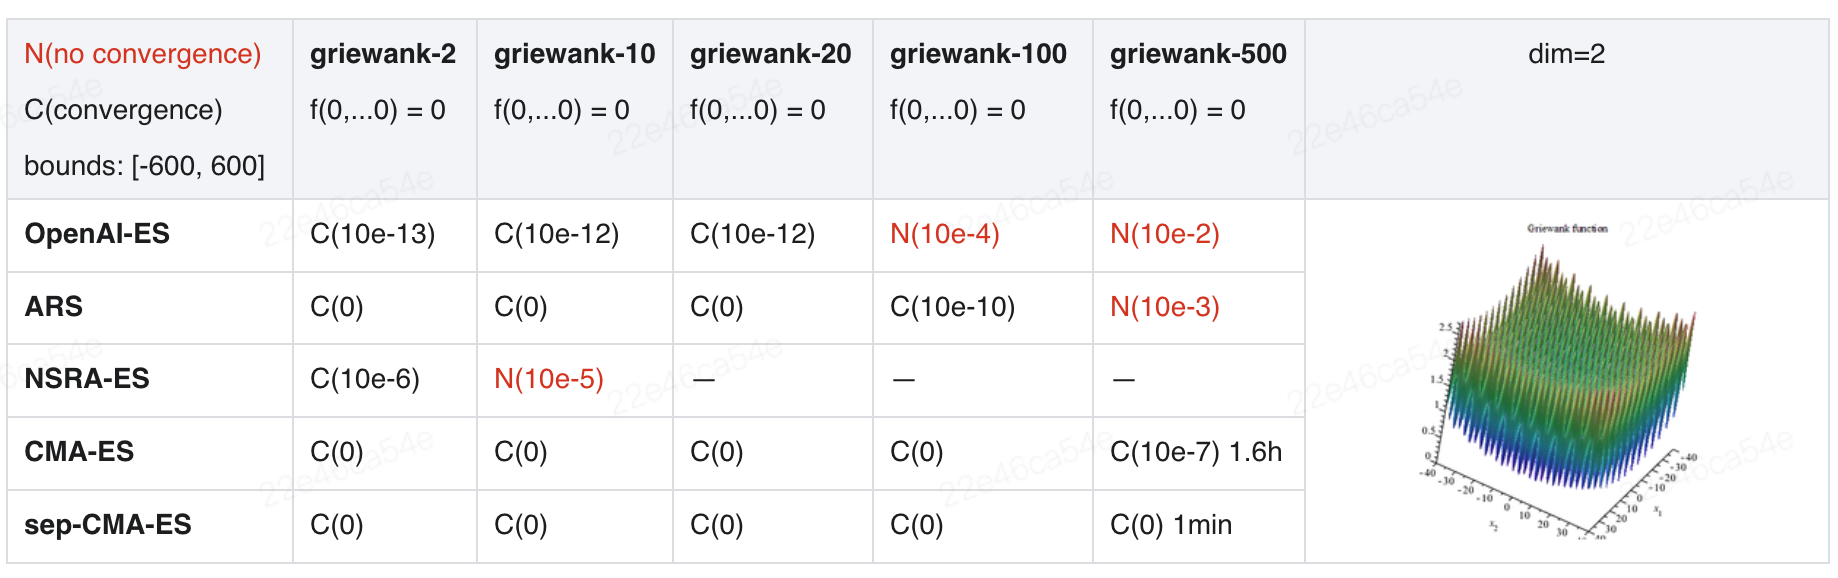
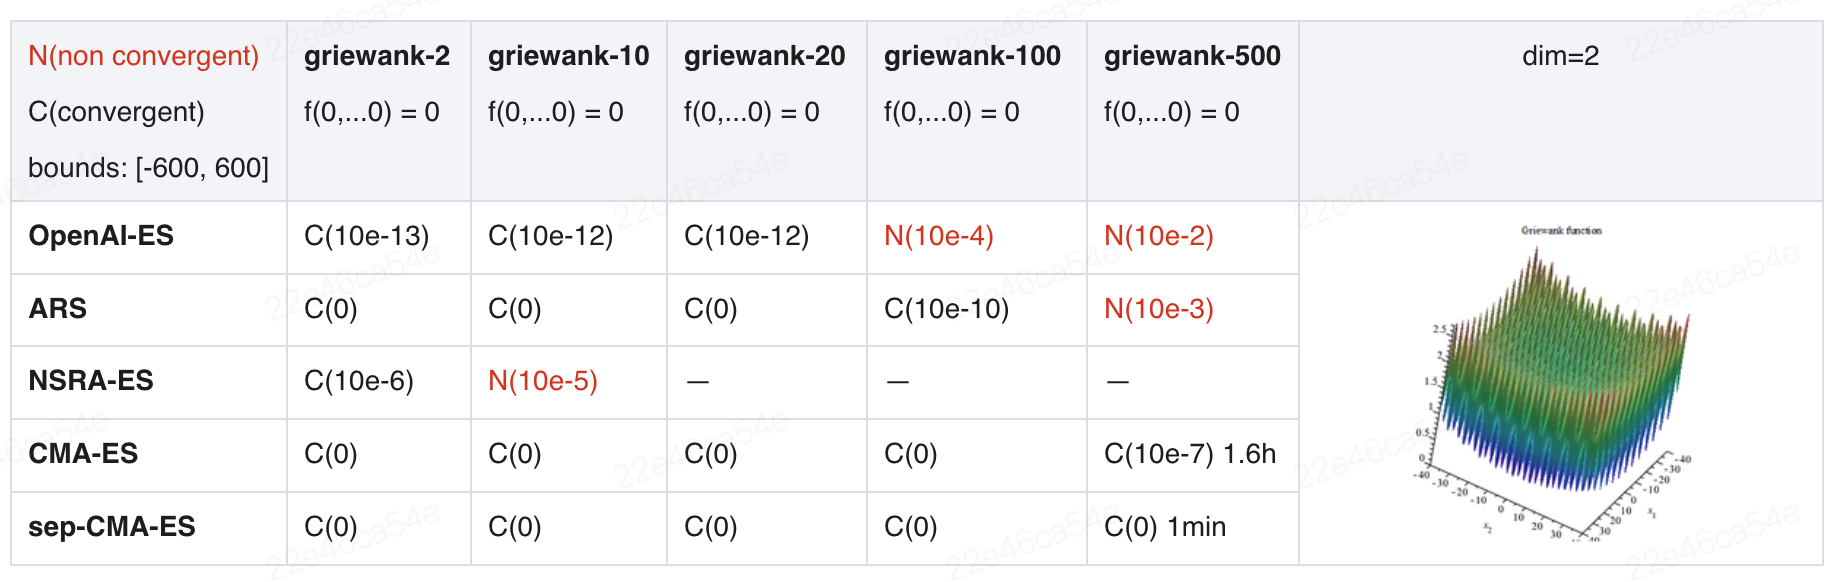
modify readme, update func results

diff --git a/examples/README.md b/examples/README.md
@@ -2,7 +2,7 @@
 ## Examples
 Examples and results of five algorithms on the two built-in problems.
 ### Benchmark result
-+ Results of four algorithms in five dimensions (2, 10, 20, 100, 500) on two mathematical functions (Ackley and Griewank). (Direct optimization of float list, i.e. inputs to mathematical functions)
++ Experiment result of different algorithms on two mathematical functions (Ackley and Griewank), five kinds of dimensions are selected for comparison
 
     <p align="center">
     <img src=".results/ackley_results.png" alt="ackley_results">
@@ -11,7 +11,7 @@ Examples and results of five algorithms on the two built-in problems.
     <img src=".results/griewank_results.png" alt="griewank_results">
     </p>       
 
-    Note: At dim=500, the difficulty of the problem increases, and we increase the sample_num to achieve the convergence effect (sample_num=200 for ARS, sample_num=500 for CMAES and Sep-CMAES).  
+    Note: 1. Non-convergent does not mean that it cannot converge, but hyperparameters need additional adjustment. 2. At dim=500, the difficulty of the problem increases, and we increase the sample_num convergence (sample_num=200 for ARS, sample_num=500 for CMAES and Sep-CMAES).  
 
 + Results of five algorithms in two reinforcement learning environments (HalfCheetah-v2 and Humanoid-v2). (model network for optimization)
 
@@ -19,28 +19,28 @@ Examples and results of five algorithms on the two built-in problems.
     <img src=".results/HalfCheetah-v2.png" width="350" alt="HalfCheetah-v2"/><img src=".results/Humanoid-v2.png" width="350" alt="Humanoid-v2"/>
     </p>
 
-    Note: In the Humanoid-v2 environment, there are two algorithms that do not do comparative experiments, because the observation space and action space dimensions are too large, the NSRAES algorithm is difficult to calculate bc, and the CMAES sampling algorithm is too expensive (it takes 1-2 minutes to sample once).
+    Note: In Humanoid-v2, there are two algorithms are absent in comparative experiments. With the high dimensions of observation space and action space of the environment,  calculating `bc` is hard for NSRAES, and it cost a long time for CMAES sampling (about 1-2 minutes for single sampling).
 
 ## How to use
 ### Local training for function problems
-First, go to the [examples] (http://gitlab.baidu.com/nlp-ol/ESBox/tree/developing/examples) folder and reproduce the above experimental results according to the following guidelines.
+First, enter [examples](../examples) directory, then try to run task to reproduce the above experimental results according to the following guidelines.
 ```bash
 cd examples
 ```
 
 ### Function problems (local training)
-For function problems, this example provides two different solutions (Take using the CMA-ES algorithm to solve a two-dimensional ackley function as an example).
-- Way 1. Directly optimize the input of the function, start local training
+Two Methods are provided for function problems. (e.g. solve 2D ackley function by CMA-ES).
+- Method 1. Directly optimize the input of the function, start local training
     ```bash
     python run_function.py --config_file ./tuned_configs/cmaes_function.ymal
     ```
-- Way 2. By optimizing a single-layer model network with a fixed input of 1 (the output of the model is the input of the function)
+- Method 2. By optimizing a single-layer model network with a fixed input of 1 (the output of the model is the input of the function)
     ```bash
     python run_function_model.py --config_file ./tuned_configs/cmaes_function_model.ymal
     ```
 
 ### RL problems (distributed training)
-For RL environments, we provide examples of direct optimization policy models (Take using OpenAI-ES algorithms to solve the HalfCheetah-v2 problem as an example).  
+In RL environments, we provide examples which will directly optimize policy model (e.g. solve the HalfCheetah-v2 by OpenAI-ES).  
 Before starting training, please use [xparl](https://parl.readthedocs.io/en/latest/parallel_training/setup.html) to create a cluster. Refer to the [documentation](https://parl.readthedocs.io/en/latest/parallel_training/setup.html) for more information on clustering..
 
 ```bash
@@ -51,4 +51,4 @@ xparl start --port 8010 --cpu_num 50
 python run_mujoco.py --config_file ./tuned_configs/openaies_mujoco.ymal
 ```
 For configuration of the remaining algorithms and problems
-, see [tuned_config](http://gitlab.baidu.com/nlp-ol/ESBox/tree/developing/examples/tuned_configs).
+, see [tuned_config](./tuned_configs).

diff --git a/Quickstart/README.md b/Quickstart/README.md
@@ -3,15 +3,15 @@
 ESBox provides two training methods: local and distributed, and you can solve custom problems according to the following guidelines.
 
 ## 1. Local training 
-**Step 1. Define model (Optional)** If you want to optimize model parameters, define your own model network and inherit the model base class (`TorchModel` and `PaddleModel` are currently available). If you want to optimize your float List, skip this step.         
-**Step 2. Define problem** You need to inherit the `ProblemBase` base class and override the `evaluate` method. (We also provide the reinforcement learning problem base class `RLProblem` and the mathematical function base class `FuncProblem`, the usage of which can be found in [Examples](http://gitlab.baidu.com/nlp-ol/ESBox/tree/developing/examples))          
-**Step 3.** Define algorithm parameters and task-related parameters in the configuration file `config.yaml`, and use `esbox.core.Task` to build a training task, see `run_local.py`.
+**Step 1. Define model (Optional)** If you want to optimize model parameters, define your own model network and inherit the base model class (`TorchModel` and `PaddleModel` are currently available). If you want to optimize your float List, skip this step.         
+**Step 2. Define problem** You need to inherit the `ProblemBase` for your problem and override the `evaluate` method. (We also provide other two base problem classes: `RLProblem` and `FuncProblem`, the usage of which can be found in [Examples](../examples))          
+**Step 3.** Define algorithm hyperparameter and task-related parameters in the configuration file `config.yaml`, and use `esbox.core.Task` to build a training task, see `run_local.py`.
 
 ## 2. Distributed training 
-It is basically the same as the **local training** above, and there are three differences in the place
+It is basically the same as the **local training** above, three differences
 + In **Step 2**, additionally decorate your problem class with `@parl.remote_class(wait=False)`.
-+ In **Steo 3**, `xparl_addr` and `num_workers` need to be configured in the configuration file.
-+ In **Steo 3**, use `esbox.core.ParallelTask` to build a training task, see `run_distributed.py`.
++ In **Step 3**, `xparl_addr` and `num_workers` are necessary in the configuration file.
++ In **Step 3**, use `esbox.core.ParallelTask` to build a training task, see `run_distributed.py`.
 
 ## Examples
 Here are two examples of using OpenAI-ES algorithms to optimize List and Model, and you can modify them according to the guidelines to build your own questions. Each example provides two training methods: local training and distributed training.
@@ -35,7 +35,7 @@ cd CartPole-example
 The task can get around 500 points after 200 steps.
 
 #### 2. A 2-dimentional quadratic function problem
-This example uses the OpenAI-ES algorithm optimization flost **list** (input to a 2D quadratic function) to find the maximum value of a 2-dimension quadratic function.
+This example uses the OpenAI-ES algorithm to optimize float **list** (as input of 2D quadratic function) to find the maximum value of a 2-dimension quadratic function.
 
 ```bash
 cd Quadratic-example
@@ -51,4 +51,4 @@ cd Quadratic-example
     ```
 
 **Expected Result** 
-The task can get around 0.99999 (the actual maximum value is 1) points after 200 steps.
+The task can get around 0.99999 ( the actual maximum value is 1.0 ) points after 200 steps.

diff --git a/examples/tuned_configs/README.md b/examples/tuned_configs/README.md
@@ -7,24 +7,24 @@ The detailed configuration of each part is described below.
 ## Algorithm settings
 ### sampler parameters
 + **`sample_num (int)`**: number of samples in an iterative optimization process
-+ **`mirror_sample (bool, optinal, default=true)`**: whether to use mirror sampling techniques (for Gaussian samplers)
++ **`mirror_sample (bool, optinal, default=true)`**: whether use the trick of mirror sampling
 + **`noise_stdev (float)`**: standard deviation of noise
 + **`seed (int, optinal, default=123)`**: random seed for sampler
-+ **`init_policy (string, optinal, default='randome')`**: initialization strategy of optimized parameters (options: 'zeros', 'ones', 'random', 'uniform', 'normal')
++ **`init_policy (string, optinal, default='randome')`**: initialization strategy of model parameters or float list (options: 'zeros', 'ones', 'random', 'uniform', 'normal')
 
 ### learner parameters
 + **`learning_rate (float)`**: learning rate for optimizer
 + **`top_k (int, optinal, default=None)`**: top k sample weights with optimal performance (for ARS, CMAES, Sep-CMAES), or number of nearest neighbors used when calculating novelty (for NARA-ES)
 + **`init_sigma (float, optinal, default=1.0)`**: initial standard deviation of covariance matrix (for CMAES, Sep-CMAES)
 + **`alg_name (string, )`**: name of algorithm (options: 'openaies', 'ars', 'nsraes', 'cmaes', 'sep-cmaes')     
-**Note**: The specific parameter descriptions of different learners can be found in the corresponding comments in [algorithms] (http://gitlab.baidu.com/nlp-ol/ESBox/tree/developing/esbox/algorithms).
+**Note**: The specific parameter descriptions of different learners can be found in the corresponding comments in [algorithms](../../esbox/algorithms/).
 
 ## Task settings
 + **`max_runs (int, optinal, default=200)`**: Max time steps to run environment
 + **`display (bool, optinal, default=True)`**: whether to display the training process
 + **`eval_every_run (int, optinal, default=10)`**: step interval between two consecutive evaluations
 + **`xparl_addr (string, optinal, default=None)`**: xparl address for distributed training, e.g. localhost:8010 (Required only for distributed training)
-+ **`num_workers (int, optional)`**: (Supporting parameter of `xparl_addr`) number of workers used to evaluation problems (Required only for distributed training)
++ **`num_workers (int, optional)`**: (supplementary parameter of `xparl_addr`) number of workers used to evaluation problems (Required only for distributed training)
 
 
 ## Problem settings (Optional, required when using built-in problems)
@@ -33,7 +33,7 @@ The detailed configuration of each part is described below.
     + **`dim` (int)**: dimension of the problem, [1, $+\infty$], usually [1, 100]
     + **`bounds` (list, optional, default=None)**: constraint bounds on the input of function, e.g. [-5, 5]
 
-    + **`scale` (bool, optional, default=False)**: whether to implement linear scaling from bounds to [x_low, x_up], default [-1, 1]. Usually used when using networks, and the last layer of the network is tanh.
+    + **`scale` (bool, optional, default=False)**: whether to implement linear scaling from bounds to [x_low, x_up], default [-1, 1]. Usually set when optimizing Model that use tanh as the activation function of last layer.
 
 + ### gym problems
     + **`env_name (string)`**: name of gym environment, e.g. HalfCheetah-v2

diff --git a/Quickstart/README_cn.md b/Quickstart/README_cn.md
@@ -4,7 +4,7 @@ ESBox提供两种训练方式：本地、分布式，可以根据以下指引来
 
 ## 1. 本地训练
 **第一步：定义模型（可选）** 如果希望优化模型参数，请定义自己的模型网络，并继承模型基类（目前提供了`TorchModel`和`PaddleModel`），如果希望优化浮点型 List，请跳过这步。    
-**第二步：定义问题** 需要继承`ProblemBase`基类并重写`evaluate`方法。（我们也提供了强化学习问题基类`RLProblem`和数学函数基类`FuncProblem`，使用方法详见[Examples](http://gitlab.baidu.com/nlp-ol/ESBox/tree/developing/examples)）    
+**第二步：定义问题** 需要继承`ProblemBase`基类并重写`evaluate`方法。（我们也提供了强化学习问题基类`RLProblem`和数学函数基类`FuncProblem`，使用方法详见[Examples](../examples)）    
 **第三步：** 在配置文件`config.yaml`中定义算法参数以及任务相关的参数，并使用`esbox.core.Task`构建训练任务，详见`run_local.py`。
 
 ## 2. 分布式训练 

diff --git a/examples/tuned_configs/README_cn.md b/examples/tuned_configs/README_cn.md
@@ -16,7 +16,7 @@
 + **`top_k (int, optinal, default=None)`**: 表现最优的前k个评估点（ARS、CMAES、Sep-CMAES），计算新颖性时使用的最近邻数（NSRA-ES）
 + **`init_sigma (float, optinal, default=1.0)`**: 协方差矩阵初始值（CMAES、Sep-CMAES）
 + **`alg_name (string, )`**: 算法名称（可选项： 'openaies', 'ars', 'nsraes', 'cmaes', 'sep-cmaes'）
-**提示**：不同学习器的具体参数说明可查看[algorithms](http://gitlab.baidu.com/nlp-ol/ESBox/tree/developing/esbox/algorithms)中相对应的注释。
+**提示**：不同学习器的具体参数说明可查看[algorithms](../../esbox/algorithms/)中相对应的注释。
 
 ## 任务配置
 + **`max_runs (int, optinal, default=200)`**: 最大迭代优化次数

diff --git a/examples/README_cn.md b/examples/README_cn.md
@@ -23,7 +23,7 @@
 
 
 ## 如何使用
-首先进入[examples](http://gitlab.baidu.com/nlp-ol/ESBox/tree/developing/examples)文件夹，根据以下指引复现上述实验结果   
+首先进入[examples](../examples)文件夹，根据以下指引复现上述实验结果   
 ```bash
 cd examples
 ```
@@ -50,4 +50,4 @@ xparl start --port 8010 --cpu_num 50
 # 启动训练
 python run_mujoco.py --config_file ./tuned_configs/openaies_mujoco.ymal
 ```
-其余的算法和问题对应的 config 详见 [tuned_config](http://gitlab.baidu.com/nlp-ol/ESBox/tree/developing/examples/tuned_configs)。
+其余的算法和问题对应的 config 详见 [tuned_config](./tuned_configs)。
